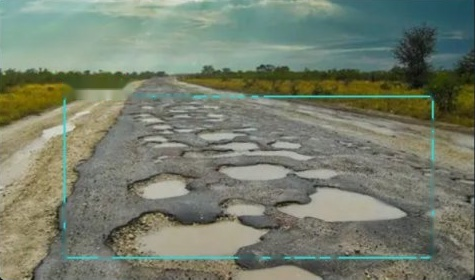
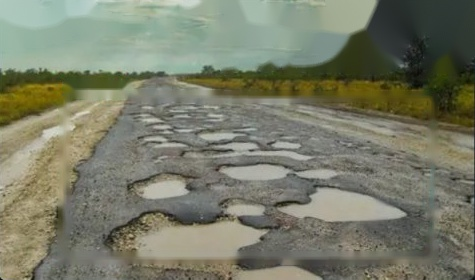
fix(pipeline): unify coherent waterlogged cavity boundaries, eliminate distance-transform confetti splitting, remove cyan artifact, add badge collision avoidance

diff --git a/pipeline/deep_inference_pipeline.py b/pipeline/deep_inference_pipeline.py
@@ -1081,10 +1081,19 @@ class DeepInferencePipeline:
             if not binary.any():
                 continue
 
-            binary = cv2.morphologyEx(binary, cv2.MORPH_CLOSE,
-                                      cv2.getStructuringElement(cv2.MORPH_RECT, (3, 3)))
+            if seg_cls == 2:
+                # Morphological closure bridges broken crater rims and fills internal water reflections
+                close_k = cv2.getStructuringElement(cv2.MORPH_ELLIPSE, (17, 17))
+                binary = cv2.morphologyEx(binary, cv2.MORPH_CLOSE, close_k)
+                cnts, _ = cv2.findContours(binary, cv2.RETR_EXTERNAL, cv2.CHAIN_APPROX_SIMPLE)
+                for c_cnt in cnts:
+                    if cv2.contourArea(c_cnt) >= 30:
+                        cv2.drawContours(binary, [c_cnt], -1, 1, -1)
+            else:
+                binary = cv2.morphologyEx(binary, cv2.MORPH_CLOSE,
+                                          cv2.getStructuringElement(cv2.MORPH_RECT, (3, 3)))
             n, lab, st, _cen = cv2.connectedComponentsWithStats(binary, 8)
-            min_px = _min_px_for("crack" if seg_cls == 1 else "pothole")
+            min_px = max(45, int(0.0012 * frame_px)) if seg_cls == 2 else _min_px_for("crack")
             for i in range(1, n):
                 area = int(st[i, cv2.CC_STAT_AREA])
                 if area < min_px:
@@ -1105,27 +1114,9 @@ class DeepInferencePipeline:
                 floor_adj = 0.06 if (f_cls_cur.get("class_id") == seg_cls and float(f_cls_cur.get("confidence", 0.0)) >= 0.80) else 0.0
                 if mean_p < (self._component_floor(seg_cls) - floor_adj):
                     continue
-                comp_mask = (lab == i).astype(_np.uint8)
-                sub_regions = []
-                if seg_cls == 2 and area >= 100:
-                    dist = cv2.distanceTransform(comp_mask, cv2.DIST_L2, 5)
-                    _, peaks = cv2.threshold(dist, 0.35 * dist.max(), 255, 0)
-                    np_peaks, p_lab = cv2.connectedComponents(_np.uint8(peaks))
-                    if np_peaks > 2:
-                        dist_to_peaks = []
-                        for pi in range(1, np_peaks):
-                            p_mask = (p_lab == pi).astype(_np.uint8)
-                            d_p = cv2.distanceTransform(1 - p_mask, cv2.DIST_L2, 3)
-                            dist_to_peaks.append(d_p)
-                        closest_peak = _np.argmin(_np.stack(dist_to_peaks, axis=0), axis=0) + 1
-                        for pi in range(1, np_peaks):
-                            sub_m = ((closest_peak == pi) & (comp_mask > 0)).astype(_np.uint8)
-                            if sub_m.sum() >= 10:
-                                rx0, ry0, rw, rh = cv2.boundingRect(sub_m)
-                                sub_regions.append((rx0, ry0, rw, rh, int(sub_m.sum())))
-                if not sub_regions:
-                    sub_regions = [(int(st[i, cv2.CC_STAT_LEFT]), int(st[i, cv2.CC_STAT_TOP]),
-                                    int(st[i, cv2.CC_STAT_WIDTH]), int(st[i, cv2.CC_STAT_HEIGHT]), area)]
+                # Keep whole coherent cavity intact - do not shatter into micro-confetti
+                sub_regions = [(int(st[i, cv2.CC_STAT_LEFT]), int(st[i, cv2.CC_STAT_TOP]),
+                                int(st[i, cv2.CC_STAT_WIDTH]), int(st[i, cv2.CC_STAT_HEIGHT]), area)]
 
                 for (rx, ry, rw, rh, r_area) in sub_regions:
                     x = int(rx * sx)

diff --git a/scripts/visual_evaluation_suite.py b/scripts/visual_evaluation_suite.py
@@ -38,9 +38,10 @@ def annotate_visual_frame(img_bgr, audit_result, title="Visual Test"):
     all_dets = audit_result.get("all_detections", [])
     road_dets = [d for d in all_dets if d.get("is_distress") and (d.get("bbox_pixels") or d.get("bbox_normalized"))]
     
-    # Draw individual defect boxes with sleek #1, #2 tags
+    # Draw individual defect boxes with non-colliding #1, #2 tags
     top_y = 1e9
     top_x = 0
+    drawn_badges = []
     for idx, d in enumerate(road_dets):
         bn = d.get("bbox_normalized")
         bp = d.get("bbox_pixels")
@@ -61,11 +62,17 @@ def annotate_visual_frame(img_bgr, audit_result, title="Visual Test"):
         color = (212, 212, 45) if d.get("area_method") == "segmentation_mask" else (43, 169, 240)
         cv2.rectangle(canvas, (bx, by), (bx + bw, by + bh), color, 2)
         
-        # Clean index badge #1, #2...
+        # Clean non-colliding index badge #1, #2...
         badge = f"#{idx+1}"
         (tw, th), _ = cv2.getTextSize(badge, cv2.FONT_HERSHEY_SIMPLEX, 0.42, 1)
-        cv2.rectangle(canvas, (bx, by), (bx + tw + 6, by + th + 6), color, -1)
-        cv2.putText(canvas, badge, (bx + 3, by + th + 3), cv2.FONT_HERSHEY_SIMPLEX, 0.42, (10, 15, 23), 1, cv2.LINE_AA)
+        bx_b, by_b = bx, by
+        for (ox, oy, ow, oh) in drawn_badges:
+            if abs(bx_b - ox) < (tw + 12) and abs(by_b - oy) < (th + 10):
+                by_b = min(H - th - 6, by + bh + 2)
+                break
+        drawn_badges.append((bx_b, by_b, tw + 6, th + 6))
+        cv2.rectangle(canvas, (bx_b, by_b), (bx_b + tw + 6, by_b + th + 6), color, -1)
+        cv2.putText(canvas, badge, (bx_b + 3, by_b + th + 3), cv2.FONT_HERSHEY_SIMPLEX, 0.42, (10, 15, 23), 1, cv2.LINE_AA)
 
     # Consolidated header banner on top
     if len(road_dets) > 1 and top_y < 1e8:
